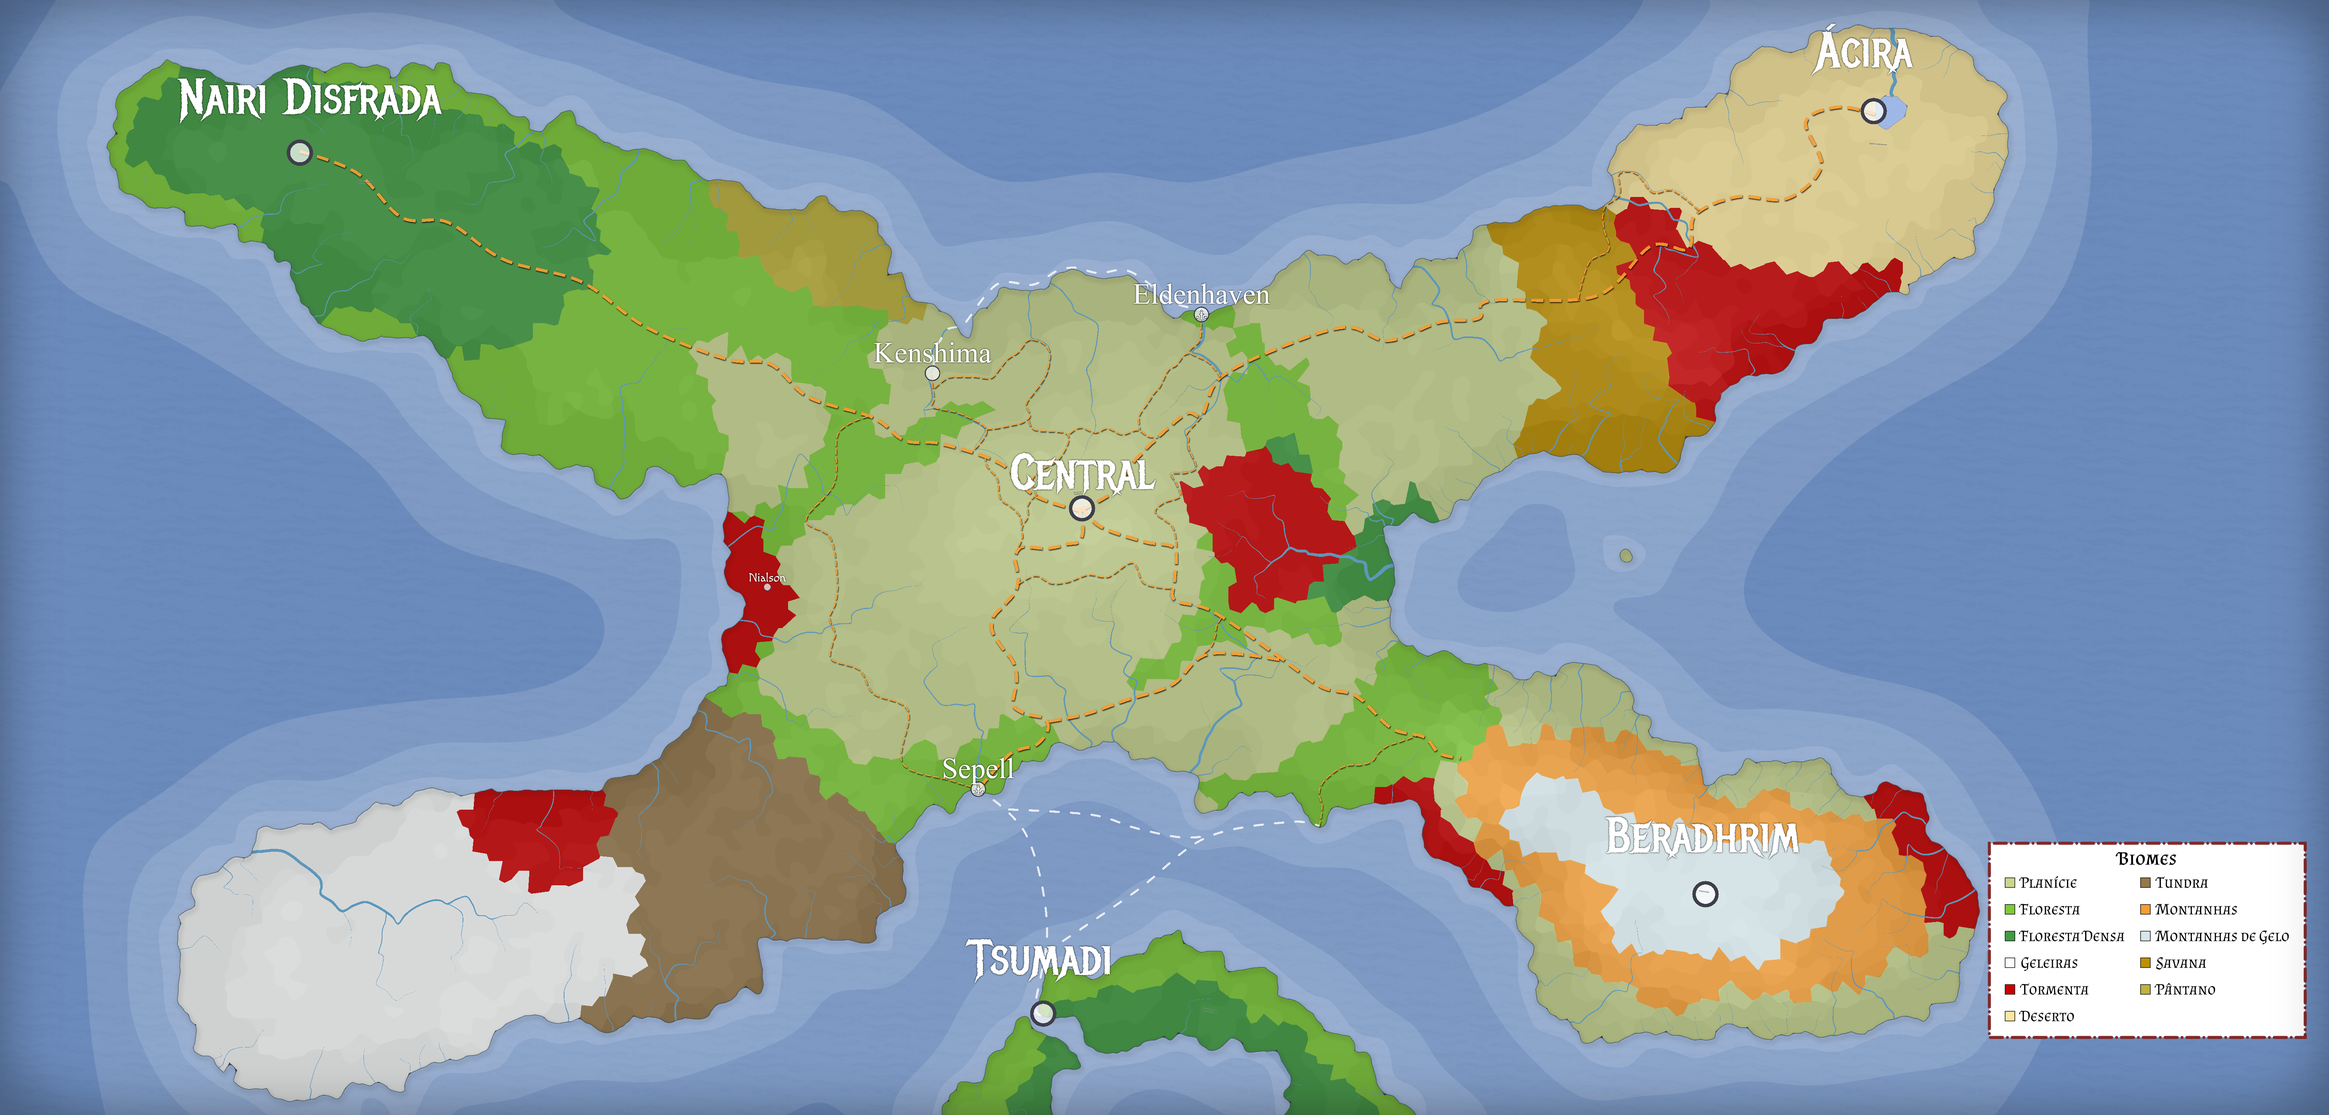
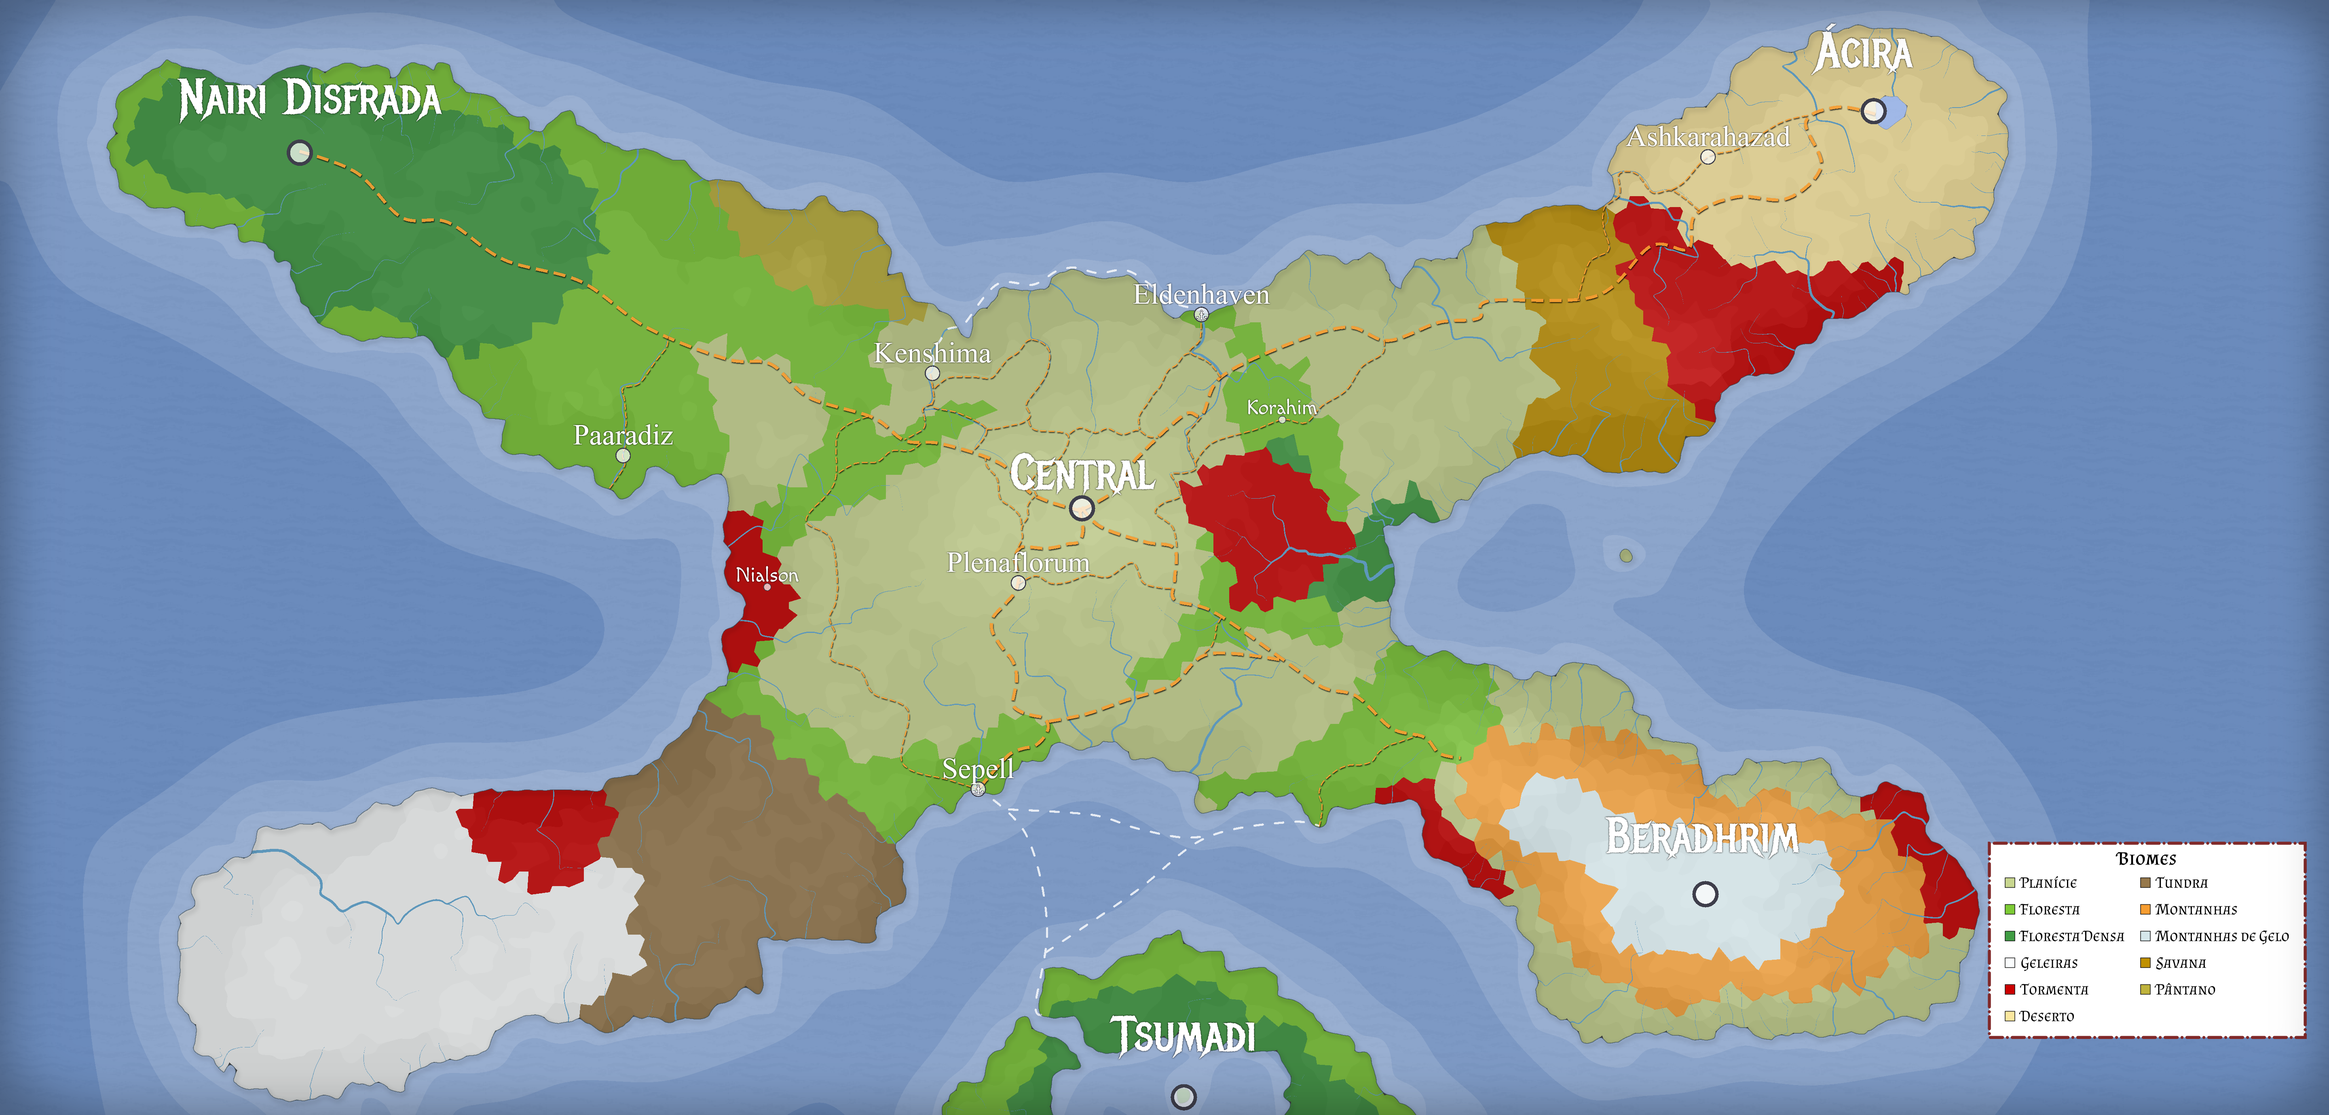
Sessão 2.1

diff --git a/docs/assets/css/blockquote.css b/docs/assets/css/blockquote.css
@@ -1,6 +1,3 @@
 blockquote {
-	padding: 1rem;
-	padding-left: 2rem;
-
-	background-color: #e5e5e5;
+	margin: 0 1em !important;
 }

diff --git a/docs/assets/css/justify.css b/docs/assets/css/justify.css
@@ -1,3 +1,3 @@
-[role="main"] p, [role="main"] li {
+.md-content p, .md-content li {
 	text-align: justify;
 }

diff --git a/docs/Sessões/Sessão_02-0.md b/docs/Sessões/Sessão_02-0.md
@@ -1,0 +1,137 @@
+# Sessão 02
+
+## Planejamento
+
+Pra essa sessão eu não planejei praticamente nada. Eu não tinha como prever exatamente o que eles fariam durante a sessão já que a outra terminou no momento que eles entraram na biblioteca depois de derrotarem os sequestradores.
+
+Por conta disso eu preparei realmente só a [dungeon do Malgrim](../Lugares/Plano_Material/Nyrule/Ermos/Marcadores/Castelo_do_Malgrim.md) e a [ficha dele](../Personagens/NPCs/Vilões/Malgrim.md#ficha-de-ameaca-nd-4).
+
+Também tinha planejado para o grupo encontrar o Crowhey no meio da viagem, mas eles contrataram uma carroça e o carroceiro não faz parte do destino do Crowhey, então eles não viram ele. Provavelmente encontrarão ele na volta, já que o carroceiro foi embora sem eles.
+
+## Acontecimentos
+
+Difícil lembrar em detalhes da sessão inteira, foi muita coisa.
+
+### Cena 1 - Biblioteca
+
+Iaris e Luciel voltaram cansados da aventura anterior e foram direto para a pousada dormir. Lyra e Venessa foram para a biblioteca pesquisar sobre quem era o Malgrim que enviou a carta para os sequestradores.
+
+Lá elas conseguem ajuda da bibliotecária e ela vai contando sobre o Malgrim, que foi um mago que a 100 anos atrás liderou uma revolução contra o "governo" (eu usei esse termo porque eles não saberiam o que é Ampáfica) com seu exército de mortos-vivos e pessoas enfeitiçadas. Elas também descobrem onde ficava o antigo castelo do Malgrim.
+
+Não lembro bem como, mas elas foram dormir também e aí Luciel e Iaris acordaram e quase decidiram ir embora sozinhos, já que a Iaris não tem muito o que fazer agora, mas o Luciel disse que queria ir para a biblioteca para pesquisar mais sobre a armadura invisível dele e como eles estão juntos eles foram.
+
+Luciel não achou nada específico sobre a armadura ou alguém que poderia lançar uma magia de "invisibilidade seletiva". De alguma forma Iaris e Venessa também foram para lá e aí não sei o que aconteceu exatamente porque minha cabeça juntou essas duas cenas em uma cena só.
+
+E como esquecer da parte mais importante dessa cena. Venessa tirou 20 no teste de enganação e agora a bibliotecária acredita que foi demitida e irá falar com o prefeito sobre isso ("essa ação terá consequências").
+
+### Cena 2 - Mercado
+
+Depois de descobrirem tudo sobre o Malgrim eles decidiram ir às compras. Iaris e Lyra foram comprar itens de cura e mana, e acharam super caro, mas rolaram bem no teste e conseguiram um pequeno desconto. Acabou que ainda era caro então compraram só Bálsamo Restaurador.
+
+E logo depois aparece a Venessa tentando e falhando em roubar o mesmo vendedor que Lyra e Iaris acabaram de comprar as coisas.
+
+### Cena 3 - Viagem
+
+Todos dormem e pela manhã contratam uma carroça pra levar eles mais pra perto do "covil", como decidiram chamar, deixando bem claro que o pônei da Venessa foi **dentro** da carroça. Por conta do fato deles terem ido com outra pessoa, eles não encontraram o Crowhey durante a viagem. Quem sabe na volta, já que o carroceiro deixou eles lá.
+
+Eles caminham mais um dia e algumas horas até avistarem de longe a gruta do Malgrim.
+
+### Cena 4 - Castelo do Malgrim
+
+Essa foi a parte mais demorada da sessão. Depois que chegaram lá nos escombros antigos do que um dia foi um pequeno forte, eles viram uma única porta numa parede que ainda se mantinha de pé. Essa porta estava menos empoeirada e suja do que o restante das paredes. Eles entraram e como Lyra não possui visão no escuro Luciel lançou [Luz](https://eduardomarques.pythonanywhere.com/114/) na katana dela.
+
+Eles foram adentrando, derrotando uns zumbis e eu me perdi um pouco na hora de gerenciar o terceiro combate (contra 5 zumbis) porque não tenho um jeito fácil de lidar com combates ainda (preciso adotar/fazer um [combat tracker](https://dm.tools/tracker)).
+
+Um detalhe importante é que Iaris nas ultimas duas salas de zumbis e na do Malgrim lançou [Consagrar](https://eduardomarques.pythonanywhere.com/50/) pra que Luciel pudesse curar mais eles e ferir melhor os zumbis, mas Luciel tava economizando PM e usou pouco o seu Cura Pelas Mãos.
+
+O combate foi quase impossível e eles tomariam TPK se eu tivesse seguido as regras à risco. Vamos à lista de regras quebradas:
+
+* Bálsamo Restaurador tava na mão da Lyra inconsciente e qualquer um podia usar nela com 1 ação de movimento;
+* Lyra teve o PV reduzido até a morte, então como regra da casa a gente decidiu que morre só com o próprio PV negativo (aparentemente eu tinha dito que era assim antes, mas a regra normal é metade do PV negativo);
+* Iaris foi a última a cair, e teve uma hora que ela bateu com uma ação de movimento;
+* No golpe final a defesa do Malgrim tinha sido reduzida pra 22 e Iaris acertou com 21;
+* Em dois ou três ataques quando só tinha a Iaris consciente todo mundo rolava o d20 e ela usava o valor mais alto pro teste.
+
+Mas tranquilo, eu nem queria que eles morressem mesmo, achei que ia ser menos mortal.
+
+Pra última cena eles derrotaram o Malgrim e Iaris curou o Luciel. Quando eles dois estão lá tentando curar o pessoal chega o Saevel, que por obra do destino, nenhum dos dois personagens fazia ideia de quem era, mas as duas inconscientes sabiam. O Saevel absorveu o Malgrim e soltou sua "nuvem negra" neles dois e eles ficam inconscientes.
+
+## Notas finais
+
+### Malgrim todo torto
+
+Eu interpretei o Malgrim tudo errado, então em vez dele ficar como alguém que não queria estar ali e foi revivido contra a própria vontade ele virou só um vilão qualquer normal...
+
+Tenho que ver como corrigir isso. Pensei em colocar algo como "eu queria que vocês me derrotassem para ver se podiam mesmo me ajudar" ou algo assim, mas não parece muito legal.
+
+### Tomar cuidado pra tratar todos igualmente
+
+Durante o combate com o Malgrim eu lembro que a Iaris perguntou sobre o que ele tava fazendo e eu respondi com "não é da sua conta", mas quando a Lyra perguntou do grupo Desírios eu respondi normal, que ele não sabia nada sobre. Anne ficou meio chateada porque eu fui ruim só com ela, tenho que tomar mais cuidado com isso.
+
+### Monotonia fora de combate
+
+Mais na frente eu falo mais sobre isso, mas basicamente não acontece muita coisa fora de combate, geralmente são eles interagindo sozinhos ou com algum NPC que só responde perguntas. Vai ser bom colocar algum NPC que é realmente ativo no diálogo das cenas.
+
+Tenho que lembrar deles encontrarem o Crowhey assim que possível.
+
+### Perguntas pós-sessão
+
+Eu perguntei pra cada um deles duas coisas:
+1. Qual foi a parte da última sessão que vc mais gostou?
+2. E a parte que vc menos gostou?
+
+Vamos às respostas.
+
+#### Mailson
+
+##### Qual foi a parte da última sessão que vc mais gostou?
+> "A primeira metade"
+
+##### E a parte que vc menos gostou?
+> "A dungeon parecia muito... sei lá... tava sem proteção nenhuma, tava fácil de achar... eu fiquei surpreso de n ser um laboratório abandonado"
+>
+> "O lugar parecia muito jogado lá, sem preocupação nenhuma de proteger o lugar, de tentar esconder, tentar se auto-preservar. Como é que ninguém achou aquele lugar em tanto tempo?"
+>
+> "Talvez fosse ser isso msm, mas como vc disse, quis avançar um pouco pq n fazia sentido a gente seguir uma pista falsa"
+
+A primeira metade que ele se refere é até antes da dungeon. E meio que ele percebeu que tinha algo de errado, o que é um bom sinal já que realmente tinha, mas eu não deixei claro que era errado de propósito, já que isso era parte da interpretação do Malgrim. Faz tanto tempo que eu planejei o encontro que eu tinha esquecido dessa parte da interpretação do Malgrim.
+
+#### Anne
+
+##### Qual foi a parte da última sessão que vc mais gostou?
+> "a batalha final pq eu senti q ia infartar 15x"
+>
+> "as interações"
+
+##### E a parte que vc menos gostou?
+> "provavelmente o sentimento de filler enquanto a gente n chegava no malgrim"
+>
+> "parecia q so existia o chegar no ponto<br>n tinha muito de nd acontecendo na viagem<br> então é so: krl a bibliotecaria<br>e logo dps: N ME MATAAAAAAAAAAAA"
+
+Eu lembro que ela já tinha comentado na outra sessão também sobre o sentimento de "não acontece muita coisa fora de combate". Mailson também tinha comentado isso sobre a outra sessão, que eles meio que se encontraram, desceram a mão nos caras e voltaram sem ninguém se sentir minimamente mais próximos.
+
+Eu posso tentar colocar algum NPC que fale algo durante a próxima sessão, a maioria das interações são eles entre eles mesmos ou algum NPC que está ajudando eles em alguma coisa, como a bibliotecária.
+
+#### Vanessa
+
+##### Qual foi a parte da última sessão que vc mais gostou?
+> "O Kombate até chegar no magrim e o do magrim tbm"
+>
+> "basicamente eu gostei do Kombate"
+
+##### E a parte que vc menos gostou?
+> "A que eu menos gostei foi a parte em que eu fui nerfada kkkkkkkkkkkkk mas isso faz parte do jogo"
+>
+> "é... acho que n tem nenhuma parte que eu n tenha gostado"
+>
+> "Ohhh mulher, eu falei na brincadeira, pode nerfa se for pra deixar o jogo equilibrado, eu falei que n gostei mas foi na zoeira"
+
+Achei que um teste CD 18 não seria muito difícil de passar e tecnicamente não era mesmo. O problema é que não era pra um personagem nível 2 e sim pra um nível 4. Pra um nível 4 é bem mais fácil mesmo, pro nível 2 já fica mais difícil, então a maior parte do combate a Venessa ficou só parada usando [Seta Infalível de Talude](https://eduardomarques.pythonanywhere.com/167/) no coração do Malgrim e falhando miseravelmente (acho que ela só passou no teste uma vez).
+
+Tenho que tomar mais cuidado com essas coisas. A ideia do [Selo de Mana](../Personagens/NPCs/Vilões/Malgrim.md#selo-de-mana) era ficar trocando de personagem conforme eles jogam, por isso que tinha três usos. Mas como a Seta era perigosa demais acabei usando uma vez e deixando nela o combate inteiro.
+
+Se acontecer de usar uma magia parecida preciso lembrar de colocar um limite de rodadas, como umas três rodadas, e colocar uma CD que eles passem sem muita dificuldade, mas não todas as vezes.
+
+#### Larissa
+
+_Larissa ainda não respondeu, assim que ela responder eu adiciono aqui._

diff --git a/docs/Sessões/Sessão_02-1.md b/docs/Sessões/Sessão_02-1.md
@@ -1,0 +1,31 @@
+# Sessão 02.1
+Okay, com o pouco tempo que eu tenho até a próxima sessão eu preciso preparar algo pra mestrar para o Vectra e a Amna. É a primeira sessão deles e é uma sessão intermediária entre a [Sessão 02](./Sessão_02.md) e a [Sessão 03](./Sessão_03.md) da mesa principal. Lembrando que vão ser duas sessões de tutorial (ou três dependendo da minha força de vontade e tempo livre).
+
+## Objetivos da sessão
+1. Relacionar eles com a storyline principal, seja com o Malgrim ou com o Saevel;
+1. Ter algo que leve a Amna a um passo mais próximo de recuperar suas memórias;
+1. Introduzir a ideia de como o jogo funciona, explicar as mecânicas de rolagem e interpretar um pouco com eles.
+
+## Notas adicionais
+1. A aventura se inicia no braço nordeste de Nyrule, próximo à Ácira;
+1. Vectra morreu há 25 anos;
+1. Escolher a perícia e o Poder Geral de Amna.
+
+## Cena 0 - Apresentação
+Conversar com eles sobre como eles se organizam com relação à onde eles dormem, como se organizam, onde "moram", como se relacionam...
+
+## Cena 1 - Interpretação
+Eles estão viajando em busca de respostas quando Ostfer os acorda de surpresa no meio da noite. Ela tentará fazer um acordo irrecusável com eles. Eles precisarão ir num joalheiro pedir para ele criar uma joia especial, um colar com um Cristal de Tormenta ao centro, e levar em um lugar que ela contará depois. Mas eles precisarão de dinheiro e do cristal, felizmente para nossos heróis eles podem conseguir ambas as coisas sem muitas dificuldades.
+
+O cristal pode ser conseguida em uma breve expedição enquanto o dinheiro em um breve... roubo em uma casa de algum rico. Quanto ao roubo, a Ostfer ainda está organizando tudo para facilitar a missão para eles. Por enquanto, eles devem eles extrair o cristal, que pode ser encontrada nas proximidades da Zona de Tormenta próximo a Koharim, uma pequena vila de mineradores e fazendeiros.
+
+## Cena 2 - Exploração
+Uma mini cena curta em que eles chegam em Koharim. Pode pedir alguns testes de sobrevivência.
+
+## Cena 3 - Interpretação
+Chegando na cidade eles devem encontrar alguém louco o suficiente para se aproximar da Tormenta próxima apenas para minerar e só existe uma pessoa que se encaixa nessa descrição.
+
+Bagdri, um anão obcecado por pedras preciosas e raras que sempre sonhou em conseguir um Cristal de Tormenta, mas não era louco o suficiente para ir sozinho. Eles devem encontrar esse anão e convidá-lo.
+
+## Cena 5 - Exploração
+Uma cena ainda mais curta, em que nossos jogadores devem viajar para próximo da Tormenta e encontrar esses cristais.

diff --git a/docs/Personagens/PCs/Amna.md b/docs/Personagens/PCs/Amna.md
@@ -1,0 +1,20 @@
+---
+pageref-pattern: Amna
+---
+# Amna
+
+Uma qareen inventora vinda da cidade de Ashkarahazad, próxima de Ácira.
+
+Nascida uma meio-humana-dahllan, cresceu em um cenário complicado em que ambos seus pais queriam que ela assumisse seu lado para governar a sua cidade. Enquanto crescia foi perdendo o amor de seus pais por ser apenas uma humana sem atributos especiais ou capacidade de liderança, o que levou à alta cobiça de posições elevadas nos povoados próximos e à um grande teste de sobrevivência para testar as capacitações dos escolhidos.
+
+Um dos motivos que fez Amna estar sempre desinteressada nas expectativas de seus pais foi sua grande paixão. Azazel e Amna, que se apresentou como Ynnd pois acreditava ser perigoso se mostrasse quem realmente é, se casaram e foram felizes, pelo menos pelo pouco tempo que tiveram.
+
+Amna, que falhou em todos os testes, teve de se aventurar e sobreviver ao _Deserto Sem Retorno_{title="Escolher um nome de verdade pra isso"} por sua conta e risco e, caso adquirisse a força necessária, poderia retornar para governar o povo que escolher.
+
+Azazel e Amna tiveram de partir para o _Deserto Sem Retorno_ sem Azazel sequer saber sobre o teste de resistência, mas pouco antes de se mudarem, Azazel trapaceou num jogo de cartas contra um general humano, que os perseguiu até o deserto. Ao fim, foram mortos ambos pela equipe do general.
+
+Amna, em seus últimos momentos de vida, suplica para que qualquer divindade que possa ouvi-la que a salve. Seu pedido foi ouvido. Dias após de sua morte, Wynna a desperta como qareen, fazendo que esqueça sua origem humana e se torne filha da própria Deusa da Magia. Foi o suficiente para que Amna deixasse o deserto sozinha e agora apenas seu destino lhe restava.
+
+A equipe de um qareen inventor que passava pelo deserto encontrou a qareen e a resgatou, levando-a para uma cidade próxima.
+
+Ela deve recuperar suas memórias para entender sua essência e se desenvolver completamente, mas terá que fazer uma escolha difícil em relação ao seu passado.

diff --git a/docs/Personagens/PCs/Vectra.md b/docs/Personagens/PCs/Vectra.md
@@ -1,0 +1,12 @@
+---
+pageref-pattern: Vectra
+---
+# Vectra
+
+Um dia foi um elfo charlatão que vivia em um vilarejo próximo de Nairi Disfrada. Ganhava a vida aplicando golpes e enganando pessoas. Apenas não conseguia enganar sua amada, Ynnd, uma humana de uma cidade mais distante. Vectra achou perigoso se apresentar com seu nome verdadeiro, dada sua "profissão", então se apresentou como Azazel, e é assim que Ynnd o conhece. Um dia trapaceou em um jogo contra um general, que percebeu sua trapaça, forçando-o a fugir com o dinheiro antes que o general pudesse pegá-lo, acreditando que nunca o veria de novo.
+
+Fugiu com sua amada para o Deserto Sem Retorno, um lugar muito distante, mas não o suficiente. O general o encontrou e destruiu, saqueou e matou tudo que apareceu em seu caminho. Incluindo sua amada Ynnd, decapitada diante seus olhos. Vectra foi ferido no ombro e nas costas e então deixado para morrer.
+
+Em seus últimos segundos de vida, uma pequena fada surge e o toca, dando um pequeno sorriso e desaparecendo no ar. Graças ao toque da fada, Vectra "sobreviveu" àquele dia em que todos os outros pereceram. Naquele dia fez dois juramentos para si mesmo. Jurou vingança e jurou encontrar uma forma de ter sua amada de volta em seus braços. Mas logo percebeu que sua vida não voltou como imaginou. Suas feridas não se curavam e dias depois sua carne começou a apodrecer e cair, revelando o que Vectra havia se tornado, um esqueleto ambulante.
+
+Em busca de poder, encontrou em um antigo manuscrito uma breve citação sobre uma magia proibida capaz de trazê-la de volta e dar a vingança que ele busca. Atualmente está vagando pelo mundo tentando encontrar a direção para dominar essa magia.

diff --git a/docs/Objetos/Cristal_de_Tormenta.md b/docs/Objetos/Cristal_de_Tormenta.md
@@ -1,0 +1,8 @@
+---
+pageref-pattern: "[Cc]rista(?:l|is) de Tormenta"
+---
+# Cristal de Tormenta
+
+Um cristal raro que cresce ao corromper minérios e pedras preciosas dentro ou nas proximidades de uma Zona de Tormenta. O cristal é vermelho-sangue e ao tocar se sente um calor e uma sensação ruim na pele em contato. Aparenta ser uma fina camada transparente preenchida por um líquido em constante movimento, mas mesmo que o cristal seja partido, nenhum líquido é liberado. Ele se quebra como qualquer outra pedra quebraria.
+
+Esse cristal especial possui propriedades estranhas, inexplicáveis e incompreensíveis, assim como quase tudo que vem da Tormenta.
